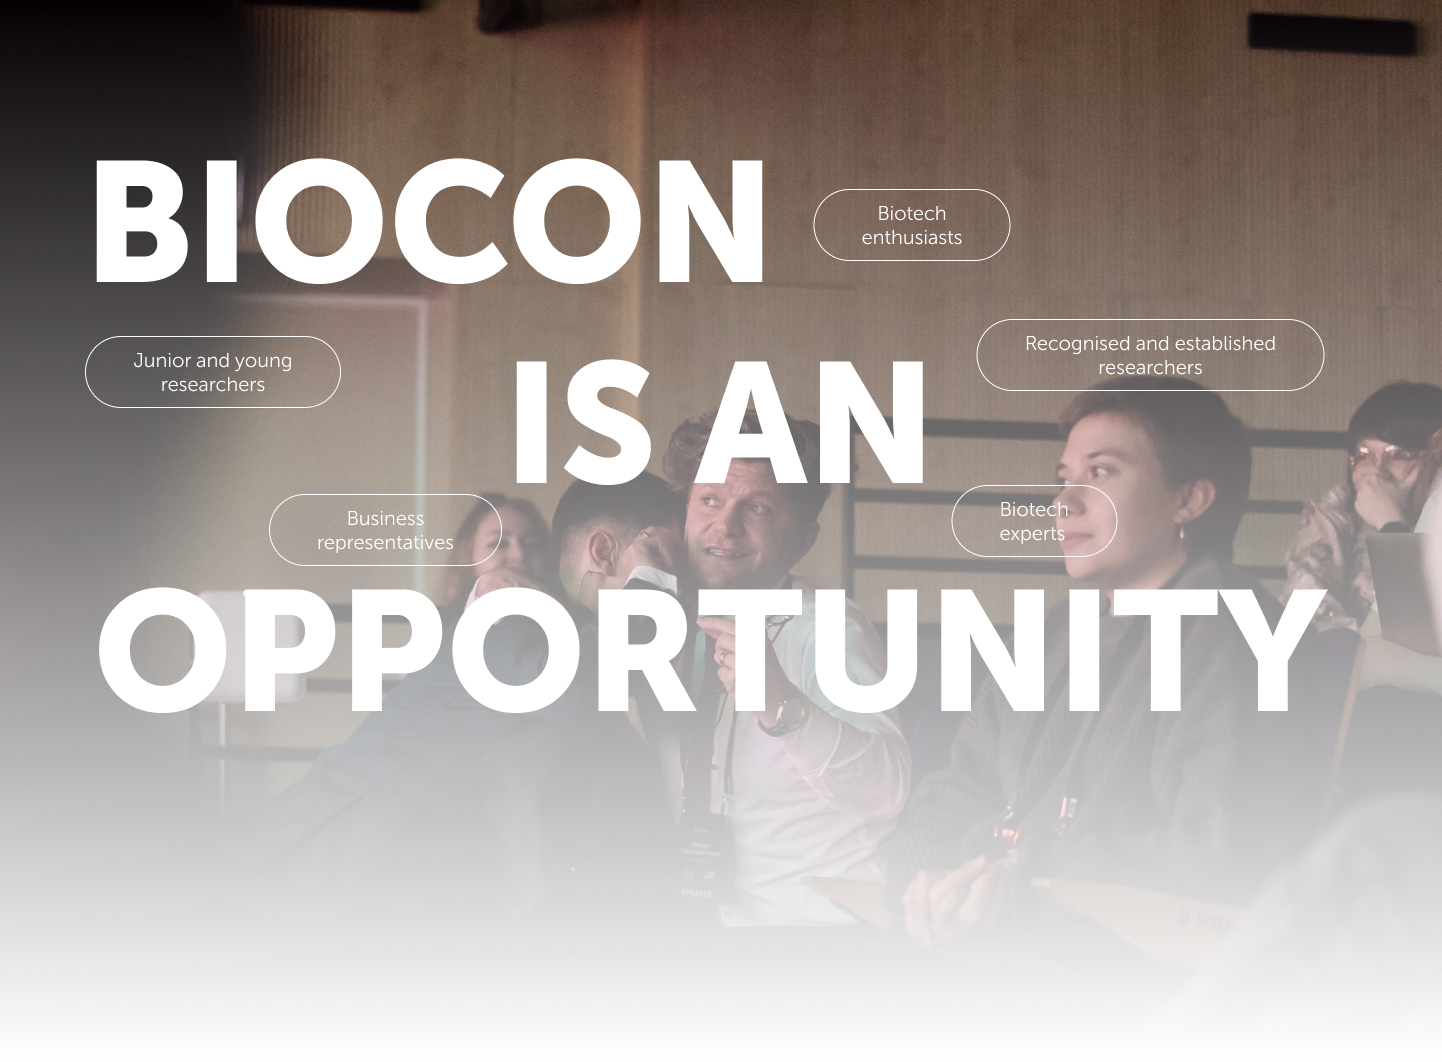
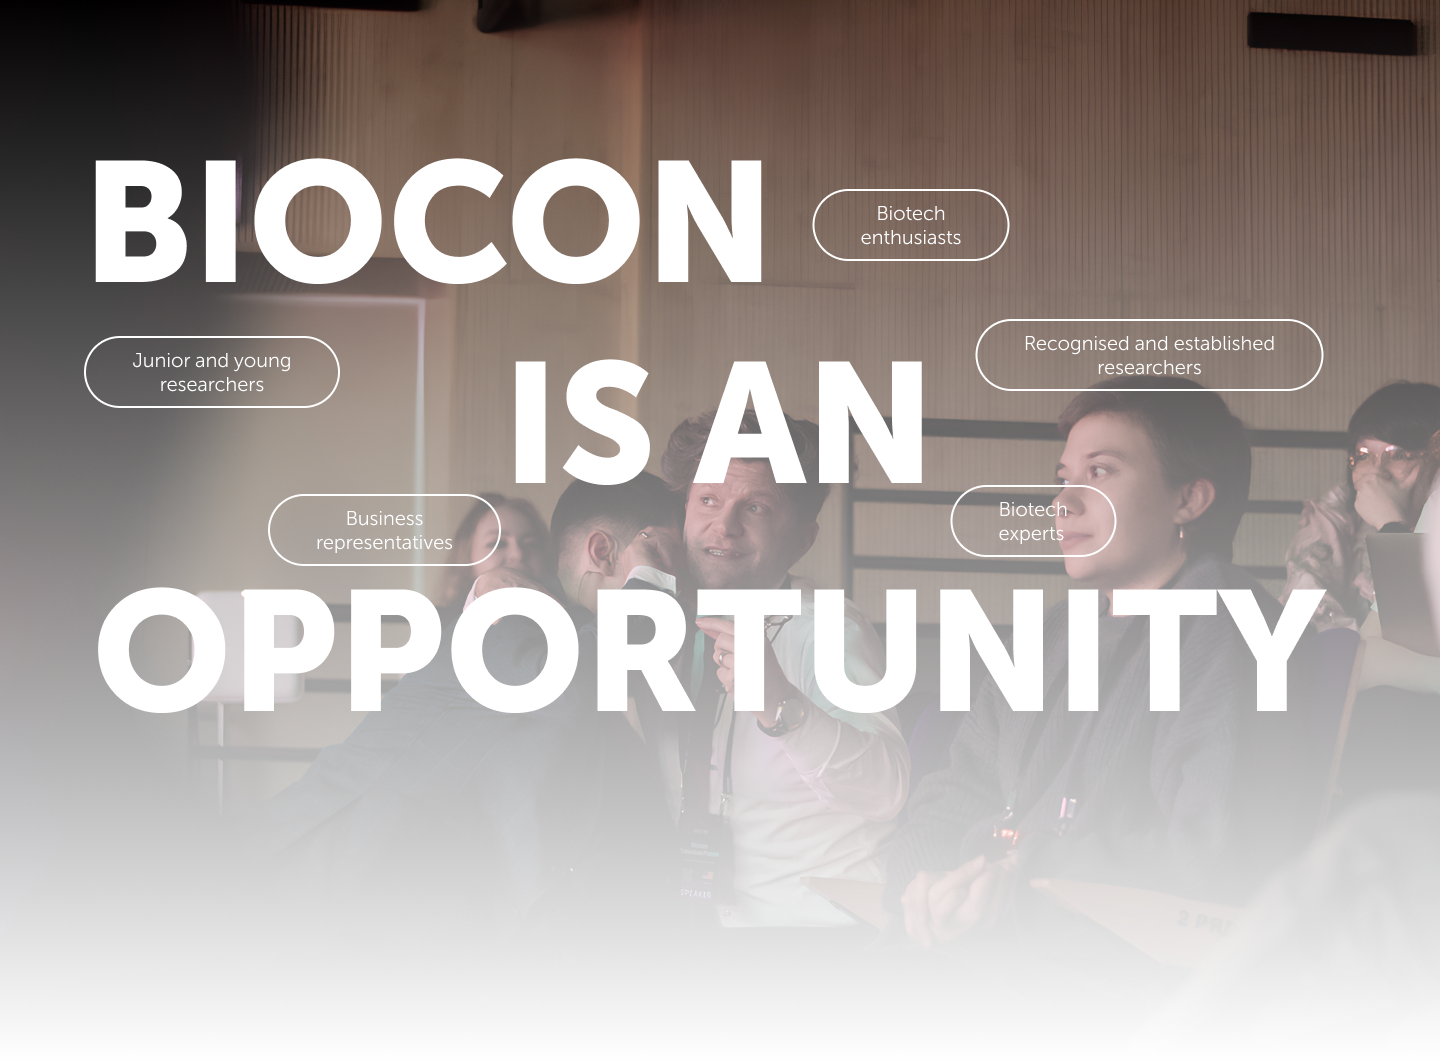
тест : upscale картинки Biocon is.... через нейросеть

diff --git a/src/components/carousel.feedback.tsx b/src/components/carousel.feedback.tsx
@@ -29,12 +29,12 @@ export default function CarouselFeedback({
         items={cardContent.map((content, i) => {
           const CardContent = ({ tgLink }: { tgLink?: boolean }) => (
             <>
-              <div className={"fcol gap-4 w-full"}>
-                <div className="flex flex-row gap-6 md:gap-6 items-center max-w-none">
+              <div className={"fcol gap-4  w-full"}>
+                <div className="flex flex-row gap-6 items-center max-w-none">
                   <Image
                     src={content.icon}
                     alt={content.name}
-                    className="aspect-square w-20 lg:w-24 object-cover rounded-full object-center"
+                    className="aspect-square w-16 lg:w-24 object-cover rounded-full object-center"
                     sizes="6rem"
                   />
                   <h3>
